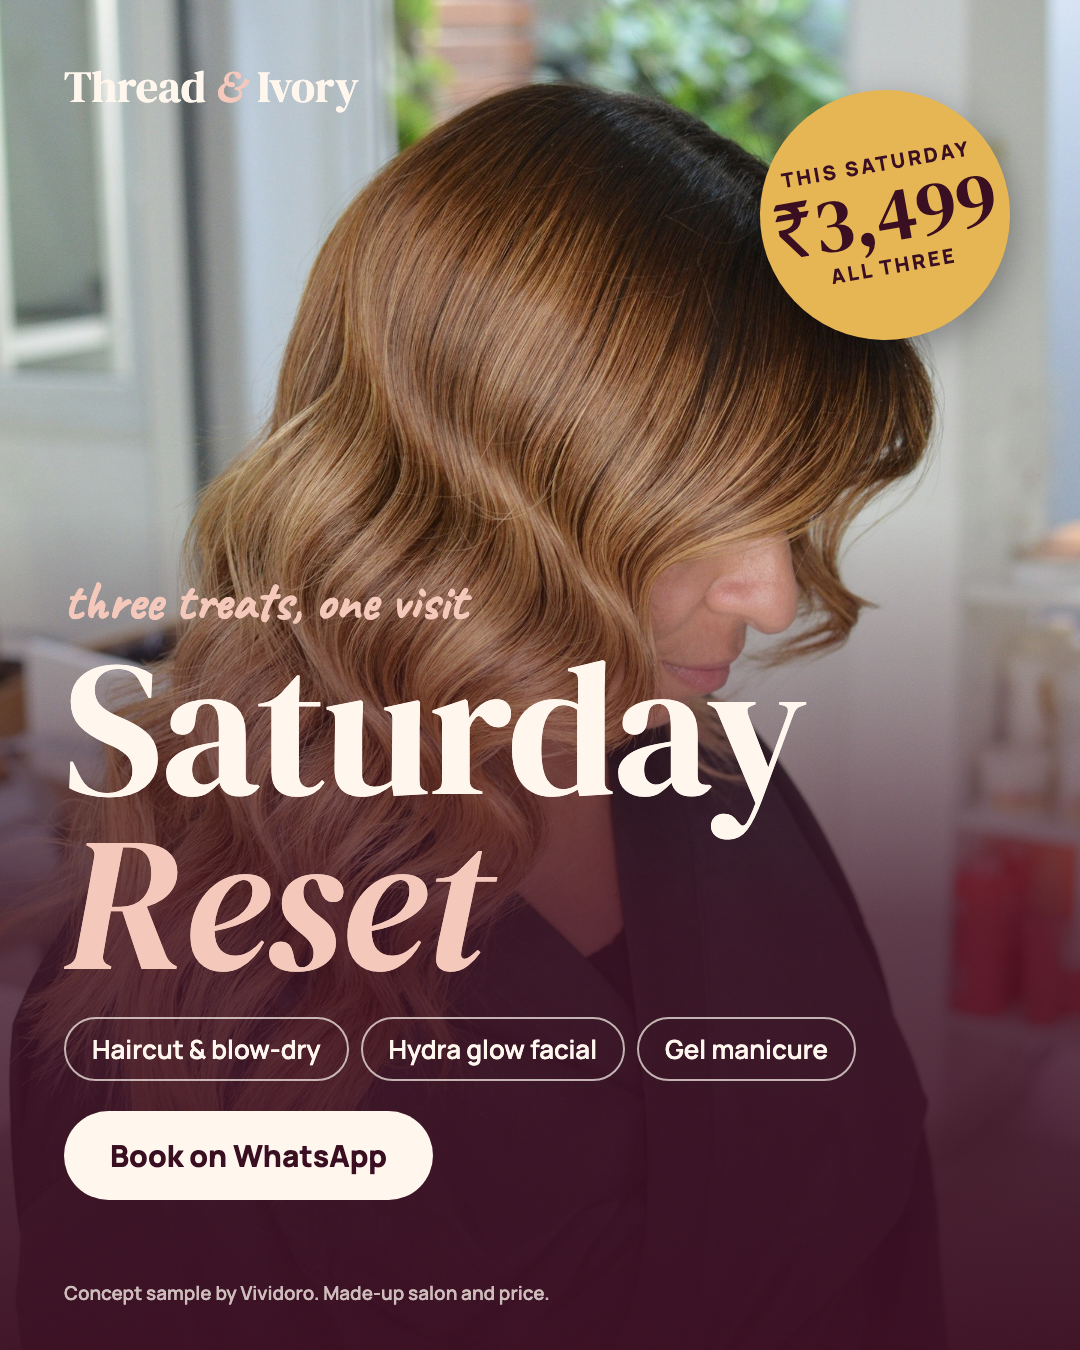
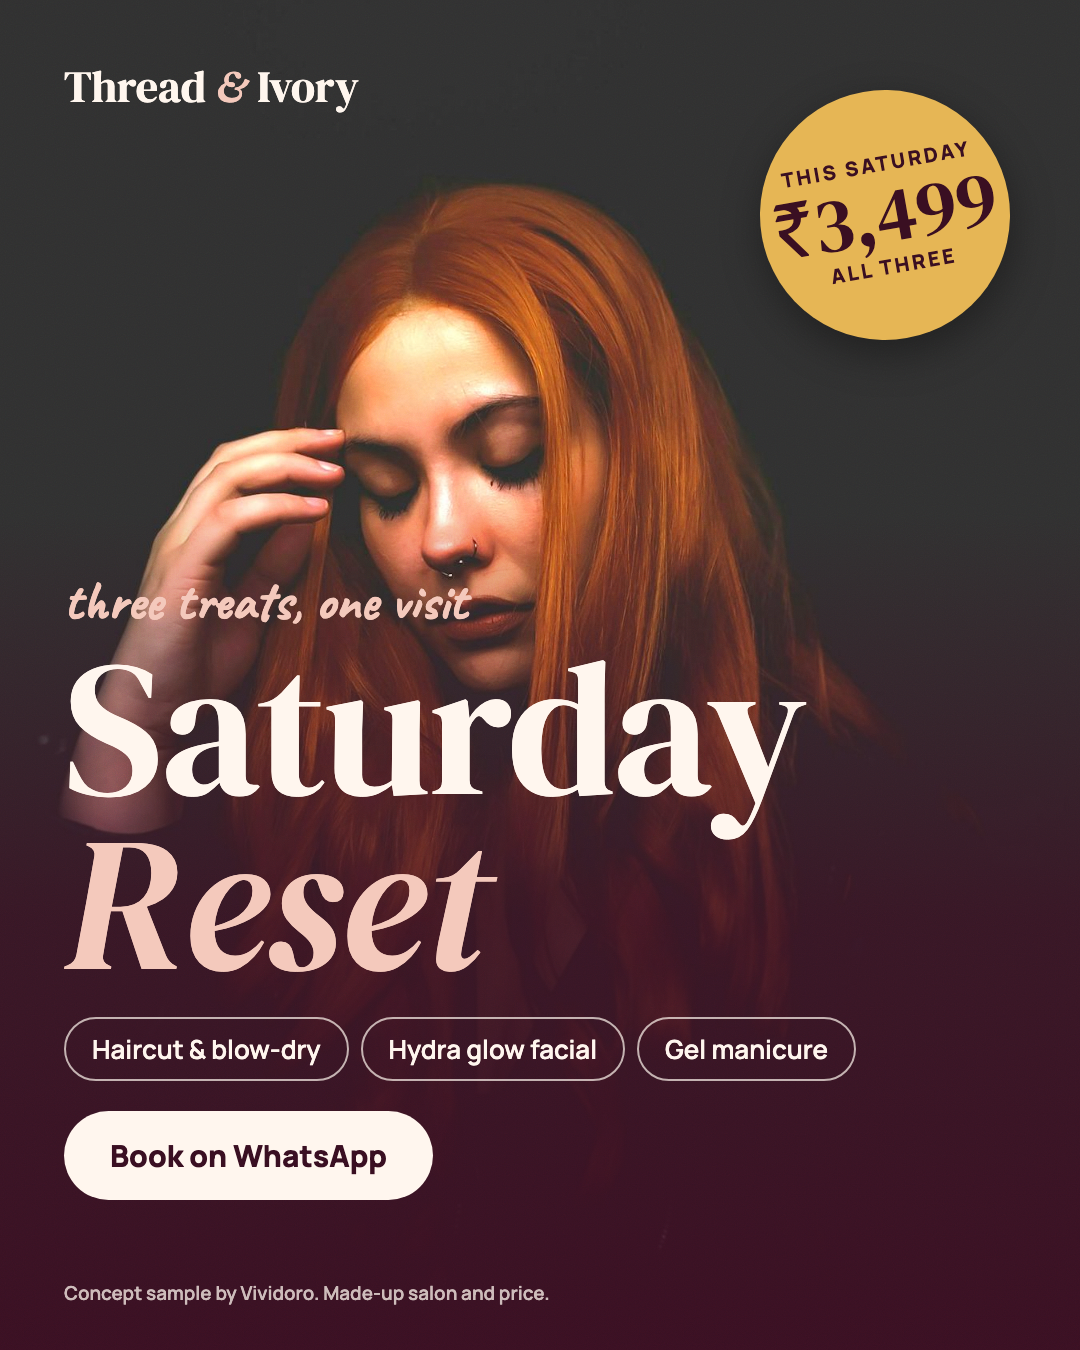
Salon hero: premium copper-hair editorial portrait

diff --git a/salon/index.html b/salon/index.html
@@ -32,7 +32,7 @@ nav .btn{padding:11px 22px;font-size:14px}
 .hero h1{font-size:clamp(58px,7.4vw,112px);margin-bottom:22px}.hero h1 em{color:var(--plum);font-style:italic}
 .hero p{font-size:18.5px;color:var(--mute);max-width:470px;margin-bottom:32px}.acts{display:flex;gap:12px;flex-wrap:wrap}
 .pills{display:flex;gap:10px;flex-wrap:wrap;margin-top:32px}.pills span{border:1px solid var(--line);border-radius:999px;padding:8px 16px;font-size:13.5px;color:var(--mute);background:var(--card)}
-.hero .ph{position:relative;overflow:hidden}.hero .ph img{position:absolute;inset:0;width:100%;height:100%;object-fit:cover;object-position:50% 30%}
+.hero .ph{position:relative;overflow:hidden}.hero .ph img{position:absolute;inset:0;width:100%;height:100%;object-fit:cover;object-position:50% 38%}
 .sec{padding:96px 0}.sec h2{font-size:clamp(42px,5.4vw,72px);margin-bottom:14px}.sub{color:var(--mute);max-width:560px;font-size:18px}
 .menu{display:grid;grid-template-columns:1fr 1fr;gap:56px;margin-top:46px}
 .mcat h3{font-size:36px;color:var(--plum);margin-bottom:6px;font-style:italic}.mcat .line{height:1px;background:var(--line);margin:8px 0 6px}
@@ -73,7 +73,7 @@ footer{padding:44px 0;color:var(--mute);font-size:14px;border-top:1px solid var(
 <p>A calm, light-filled studio where every appointment starts with a proper consultation. Pick a service, message us, and your slot is confirmed in minutes.</p>
 <div class="acts"><a class="btn" href="#menu">See services &amp; prices</a><a class="btn line" href="#packages">Packages</a></div>
 <div class="pills"><span>Walk-ins welcome</span><span>Book on WhatsApp</span><span>Free consultation</span></div>
-</div><div class="ph"><img src="img/hair.jpg" alt="Woman with soft golden-brown waves" fetchpriority="high"></div></header>
+</div><div class="ph"><img src="img/hair-premium.jpg" alt="Portrait with long copper hair" fetchpriority="high"></div></header>
 
 <section class="sec" id="menu"><div class="wrap">
 <span class="eyebrow rv">Service menu</span><h2 class="rv">Everything, with prices upfront</h2><p class="sub rv">Tap "Book" on any service and it opens WhatsApp with the service already filled in.</p>
